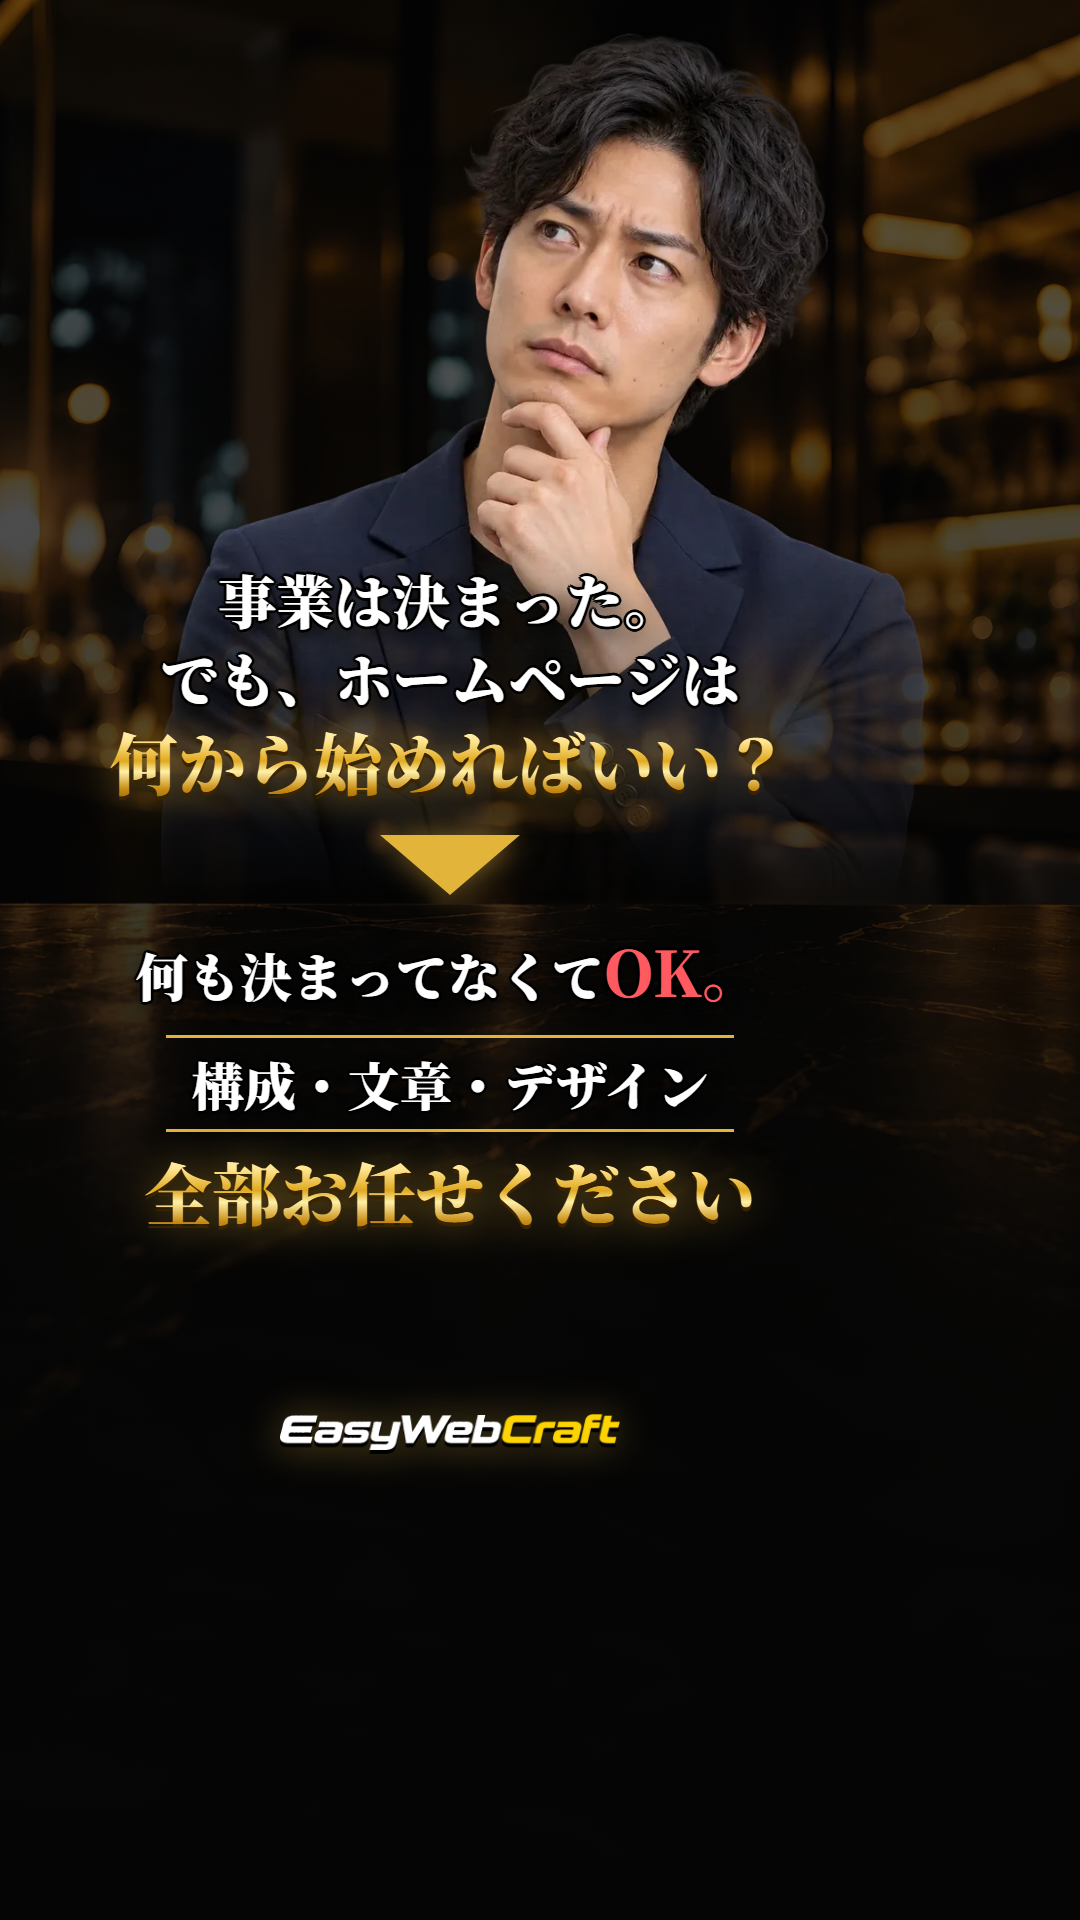
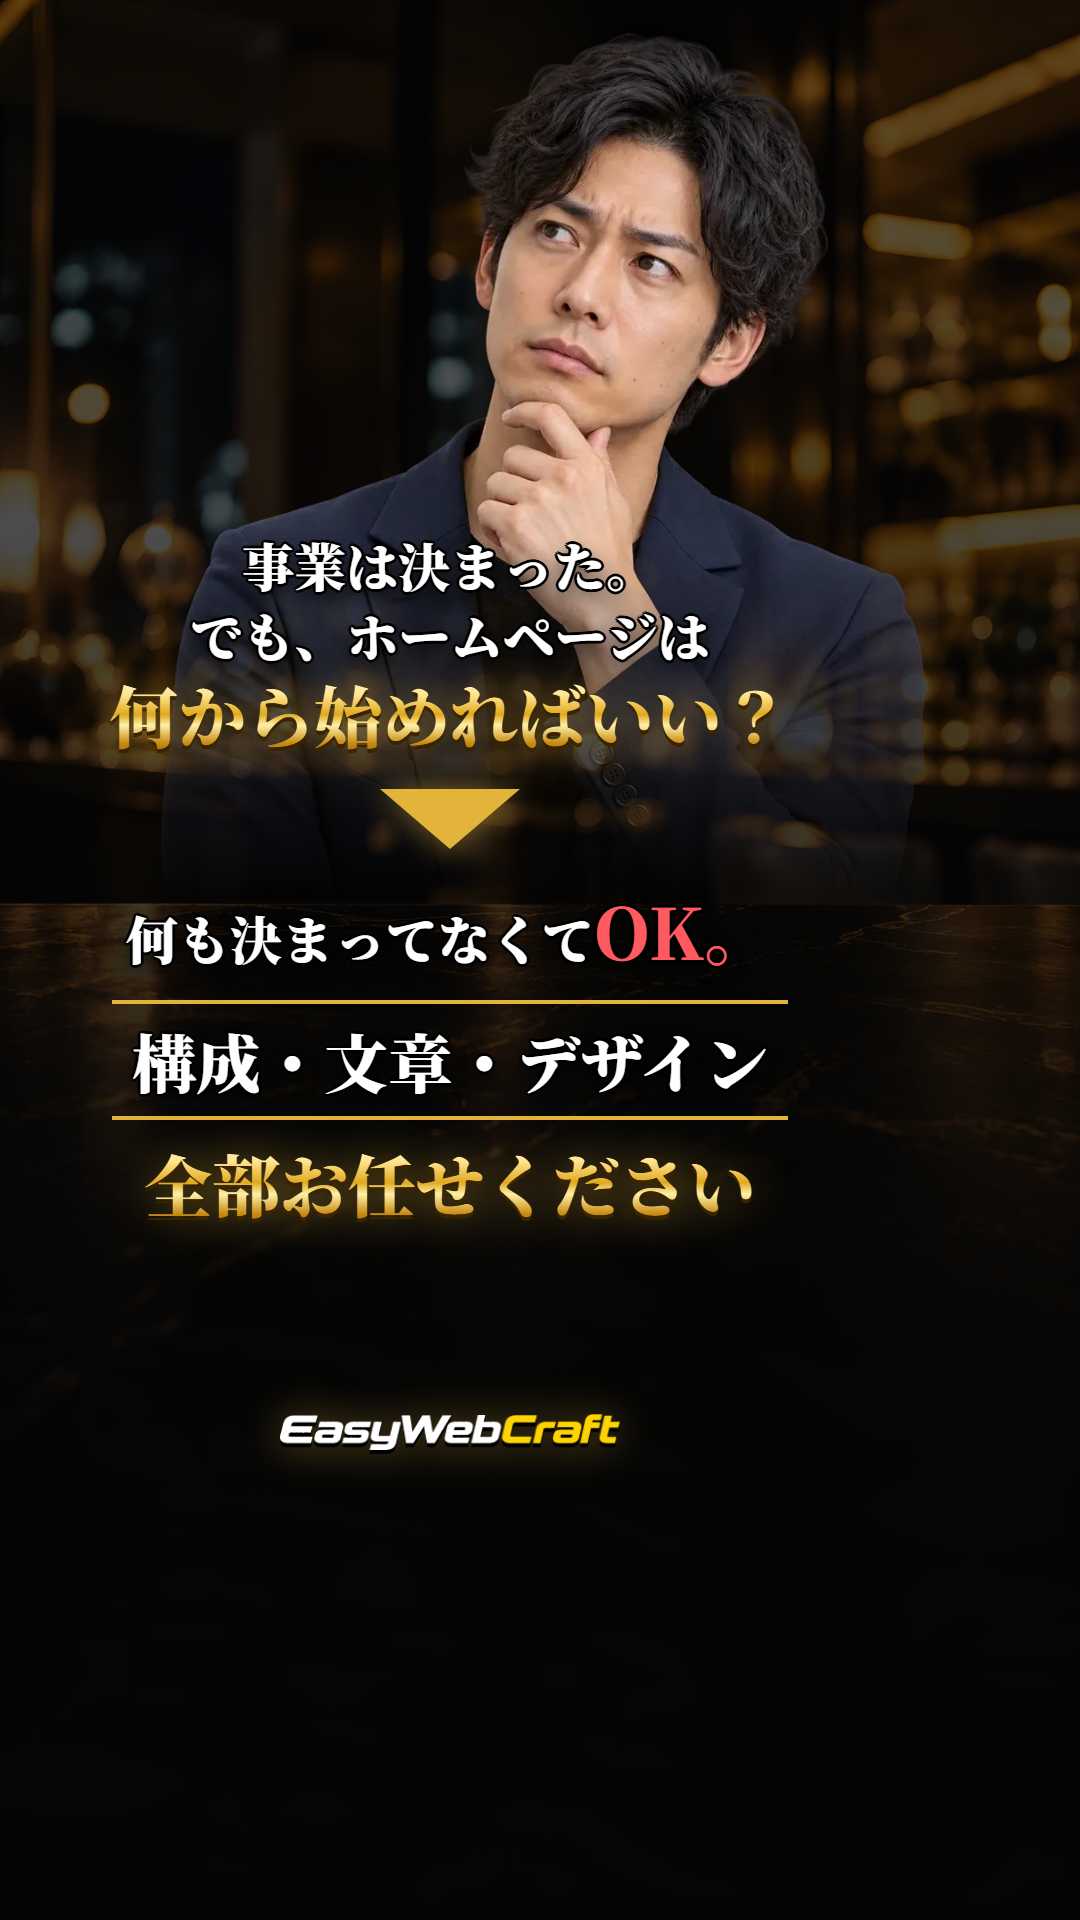
C4：矢印の下の文字を大きく
Claude-Session: https://claude.ai/code/session_01G65TiHfa1BUco43NvNDLJF

Changed region(s): [[0.0917, 0.2812, 0.7333, 0.6562]]

diff --git a/challenge/index.html b/challenge/index.html
@@ -48,7 +48,7 @@ code{background:var(--bg); padding:0 5px; border-radius:4px; font-size:.88em; wo
     <div class="card"><img src="jpg/c2.jpg?v=10" alt="こんなに安くて本当にちゃんとしたHPができるの？"><div class="no"><b>C2</b>安すぎて不安？</div><span class="tgt">価格に不安がある人</span><span class="star">主力候補</span><p class="cap">起業したばかりの方へ。こんなに安くて本当にちゃんとしたHPができるの？契約前に実物を見せます。HPデザイン案0円。</p></div>
     <div class="card"><img src="jpg/c2b.jpg?v=10" alt="月額5,980円〜 安すぎて、ちょっと不安？"><div class="no"><b>C2-B</b>価格を先に見せる版</div><span class="tgt">価格に不安がある人</span><span class="star">C2とA/Bテスト</span><p class="cap">起業したばかりの方へ。制作費0円・月額5,980円〜。安すぎて、ちょっと不安？だから契約前に実物を見せます。HPデザイン案0円。</p></div>
     <div class="card"><img src="jpg/c3.jpg?v=12" alt="起業した。でも、どこに頼めばいい？"><div class="no"><b>C3</b>どこに頼めばいい？</div><span class="tgt">依頼先で迷っている人</span><span class="star">新規</span><p class="cap">起業した。ホームページも必要。でも、どこに頼めばいい？制作会社？フリーランス？自分で？デザインを見てから決めてください。</p></div>
-    <div class="card"><img src="jpg/c4.jpg?v=13" alt="事業は決まった。でも、ホームページは何から始めればいい？"><div class="no"><b>C4</b>何から始めれば？</div><span class="tgt">HPの知識がない人</span><span class="star">顔出し</span><p class="cap">事業は決まった。でも、ホームページは何から始めればいい？何も決まってなくてOK。構成・文章・デザイン、全部お任せください。</p></div>
+    <div class="card"><img src="jpg/c4.jpg?v=14" alt="事業は決まった。でも、ホームページは何から始めればいい？"><div class="no"><b>C4</b>何から始めれば？</div><span class="tgt">HPの知識がない人</span><span class="star">顔出し</span><p class="cap">事業は決まった。でも、ホームページは何から始めればいい？何も決まってなくてOK。構成・文章・デザイン、全部お任せください。</p></div>
     <div class="card"><img src="jpg/c5.jpg?v=11" alt="起業したばかり。やることだらけでHPまで手が回らない"><div class="no"><b>C5</b>手が回らない</div><span class="tgt">本業が忙しい人</span><span class="star">顔出し</span><p class="cap">起業したばかり。やることだらけでHPまで手が回らない。まとめてお任せください。</p></div>
     <div class="card"><img src="jpg/c6.jpg?v=10" alt="起業したばかりだから、HPに大金はかけられない"><div class="no"><b>C6</b>安心3点セット</div><span class="tgt">比較検討中の人（リターゲティング向き）</span><p class="cap">HPに大金はかけられない。初期費用0円・デザイン案0円・月額5,980円〜（税別）。</p></div>
   </div>

diff --git a/challenge/ads.html b/challenge/ads.html
@@ -199,6 +199,14 @@ body{width:1080px; font-family:"Noto Sans JP",sans-serif; color:#fff; background
 #c4 .c4-a1 .red{font-size:1.2em}
 #c4 .c4-a2{font-size:52px !important; color:#fff; padding:8px 26px; border-top:3px solid var(--gold); border-bottom:3px solid var(--gold)}
 #c4 .c4-a3{font-size:78px !important; margin-top:10px; white-space:nowrap}
+/* C4：矢印の下を大きく（2026-09-30） */
+#c4 .in{top:530px !important}
+#c4 .c4-q1{font-size:52px !important}
+#c4 .c4-q2{font-size:62px !important}
+#c4 .c4-a1{font-size:52px !important}
+#c4 .c4-a1 .red{font-size:1.35em}
+#c4 .c4-a2{font-size:64px !important; padding:10px 20px !important; border-width:4px !important}
+#c4 .c4-a3{font-size:80px !important; margin-top:14px !important}
 </style>
 </head>
 <body>

diff --git a/challenge/tiktok-view.html b/challenge/tiktok-view.html
@@ -119,7 +119,7 @@ figcaption b{display:inline-block; background:#e3b43a; color:#1a1200; border-rad
 </figure>
 <figure class="ph">
   <div class="scr">
-    <img class="cr" src="jpg/c4.jpg?v=13" alt="何から始めれば？">
+    <img class="cr" src="jpg/c4.jpg?v=14" alt="何から始めれば？">
     <div class="top"><span>フォロー中</span><b>おすすめ</b><i>⌕</i></div>
     <div class="rail">
       <div class="av"><img src="img/logo-fv.webp" alt=""><em>＋</em></div>
